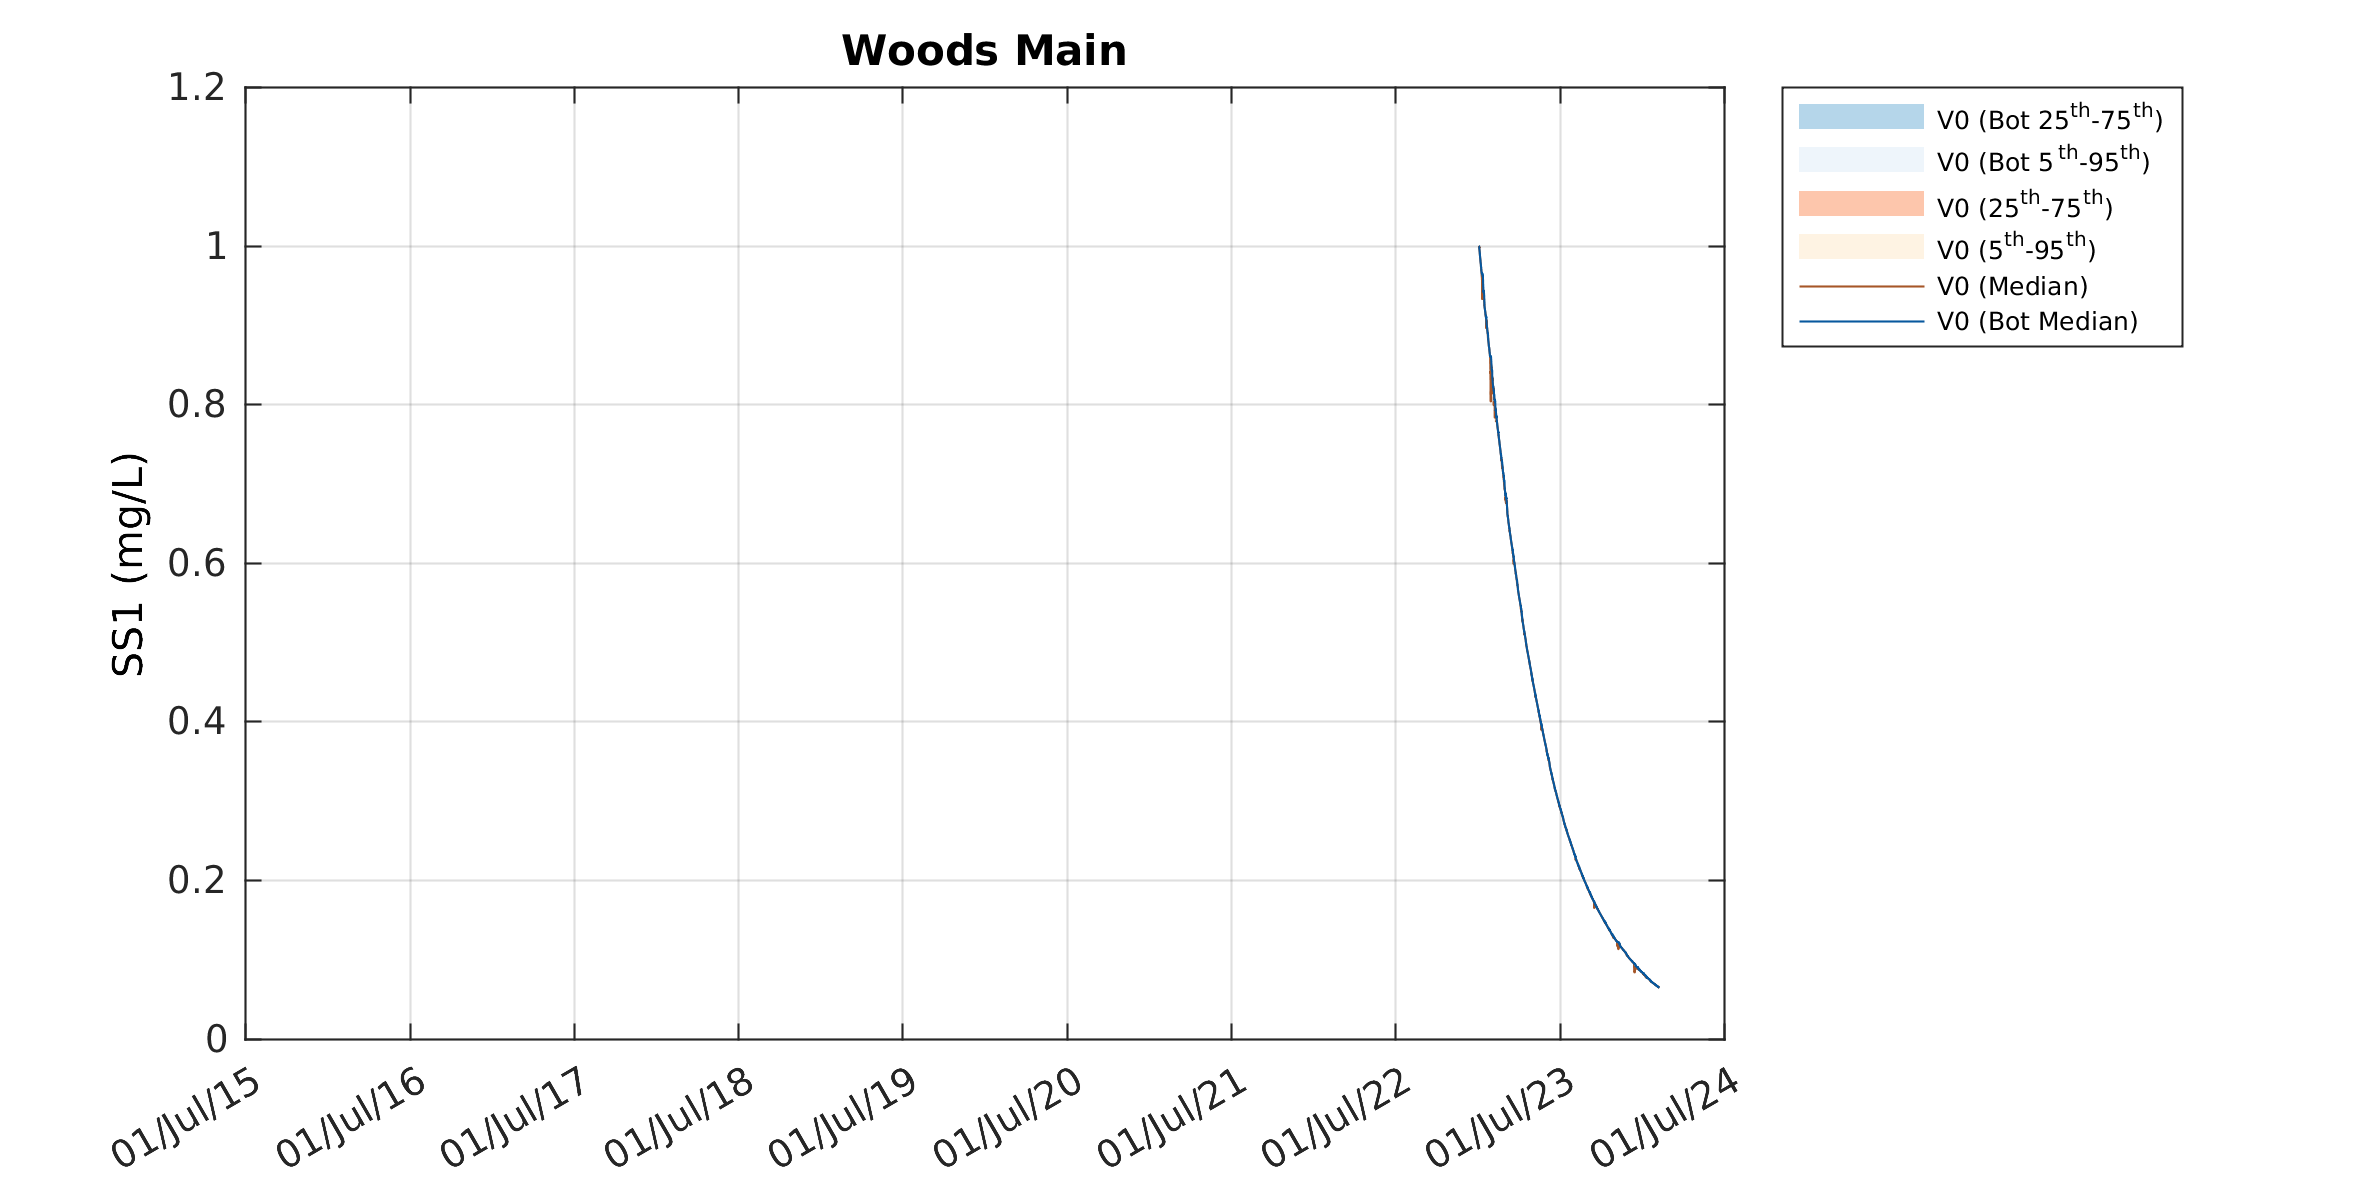
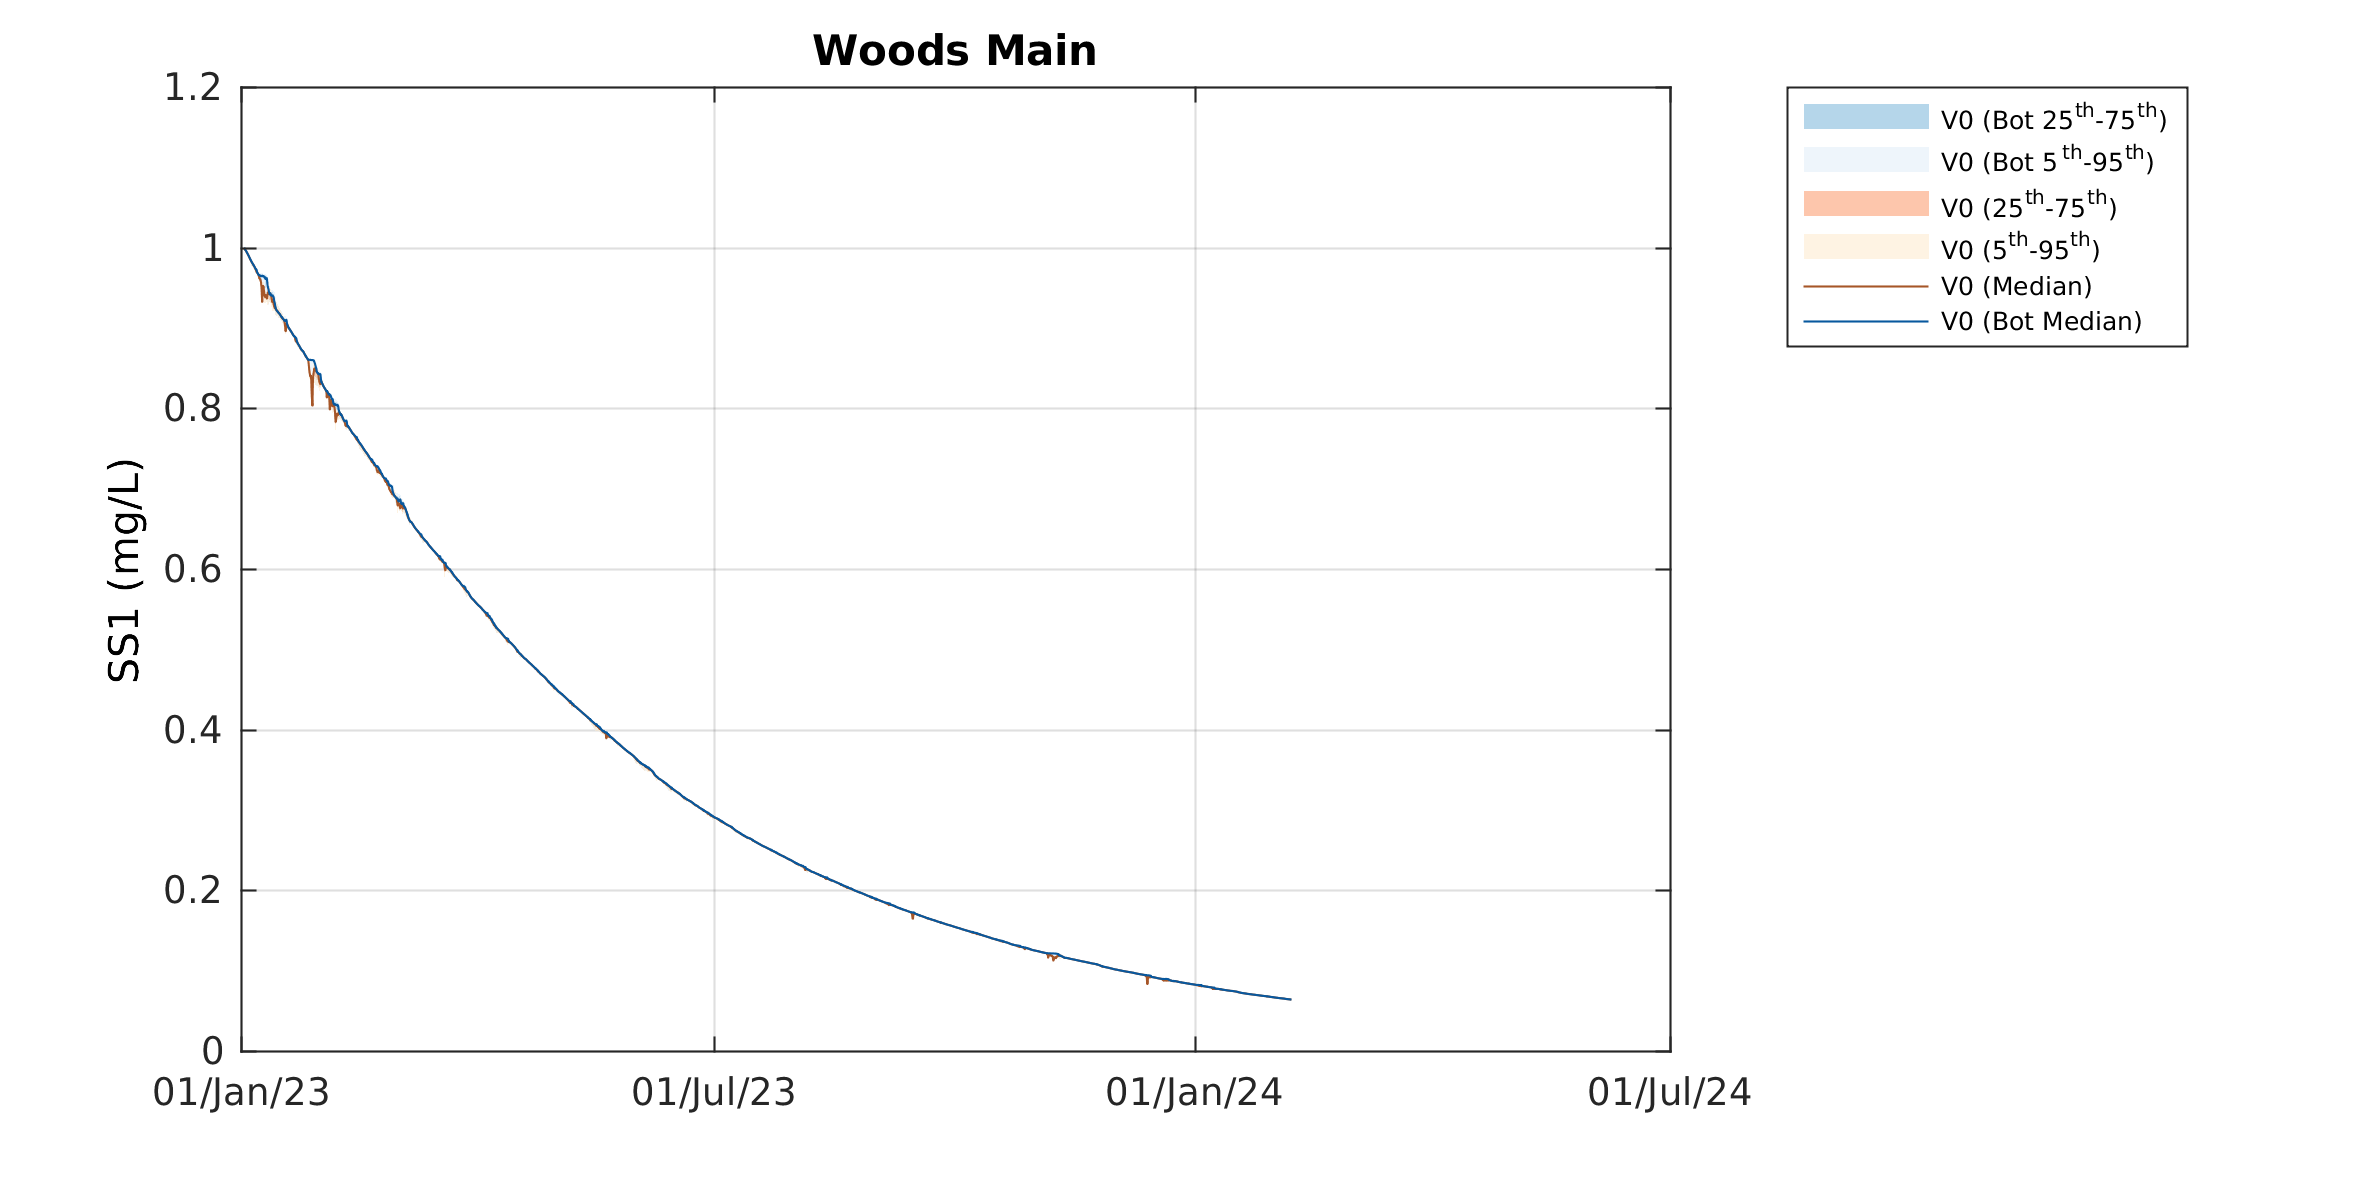
update MARVL_WQ_AED

diff --git a/marvl-config/MARVL_WQ_AED.m b/marvl-config/MARVL_WQ_AED.m
@@ -44,24 +44,24 @@ master.modules = {...
 master.varname = {...
     'H','H';...
     'SAL','Salinity';...
-    'TEMP','Temperature';...
+%    'TEMP','Temperature';...
     'WQ_OXY_OXY','DO';...
     'WQ_DIAG_OXY_SAT','DO-saturation';...
     'WQ_NIT_AMM','NH_4';...
     'WQ_NIT_NIT','NO_3';...
     'WQ_PHS_FRP','PO_4';...
-    'WQ_OGM_POP','POP';...
-    'WQ_OGM_DOP','DOP';...
-    'WQ_OGM_PON','PON';...
-    'WQ_OGM_DON','DON';...
-    'WQ_OGM_POC','POC';...
+%    'WQ_OGM_POP','POP';...
+%    'WQ_OGM_DOP','DOP';...
+%    'WQ_OGM_PON','PON';...
+%    'WQ_OGM_DON','DON';...
+%    'WQ_OGM_POC','POC';...
     'WQ_OGM_DOC','DOC';...
-    'WQ_PHS_FRP_ADS','FRPADS';...
+%    'WQ_PHS_FRP_ADS','FRPADS';...
     'WQ_DIAG_PHY_TCHLA','TCHLA';...
     'WQ_DIAG_TOT_TN','TN';...
     'WQ_DIAG_TOT_TP','TP';...
     'WQ_DIAG_TOT_TSS','TSS';...
-    'WQ_DIAG_TOT_TOC','TOC';...
+%    'WQ_DIAG_TOT_TOC','TOC';...
     'WQ_OGM_DOC','DOC';...
     'WQ_DIAG_TOT_TURBIDITY','Turbidity';...
     'WQ_NCS_SS1','SS1';...
@@ -71,7 +71,7 @@ master.varname = {...
 %     'WQ_PHY_BGA','BGA';...
 %     'WQ_PHY_GRN','GRN';...
 %     'WQ_DIAG_TOT_LIGHT','TOT-LIGHT';...
-%     'WQ_DIAG_TOT_PAR','TOT-PAR';...
+        'WQ_DIAG_TOT_PAR','TOT-PAR';...
 %     'WQ_DIAG_TOT_UV','TOT-UV';...
 %     'WQ_DIAG_TOT_EXTC','TOT-EXTC';...
 % 	  'WQ_DIAG_OGM_PON_SWI','PONSWI';...
@@ -86,10 +86,22 @@ master.add_human = 1; % option to use user-define names, if 0 use AED names
 
 % Models
 master.ncfile(1).name = '/Development/projects/Woods/woods_model_tfvaed_0.1/outputs/results/woods_2023_2024_testwq_WQ.nc';
+%'/Projects2/csiem/Model/TFV/Results_2022_B009/csiem_v1_B009_20220101_20221231_WQ_WQ.nc';
+%'/Projects2/csiem/Model/TFV/Results_2013_B009_HD/csiem_v1_B009_20130101_20131231_HD.nc';
+%'/Projects2/csiem/Model/TFV/Results_2013_B009_HD/csiem_v1_B009_20130101_20131231_HD.nc';
+%'/Projects2/csiem/Model/TFV/Results_2015_B009/csiem_v1_B009_20150101_20151231_WQ_WQ.nc';
+%'/Projects2/csiem/Model/TFV/csiem_model_tfvaed_1.0/tfvaed_1.0/outputs/results_2022_newMZ/csiem_100_A_20220101_20221231_WQ_009_WWM_WRF_GW_NAR_IMOS_newMZ_WQ.nc';
+%'/Projects2/csiem/Model/TFV/csiem_model_tfvaed_1.0/tfvaed_1.0/outputs/results_IMOS/csiem_100_A_20220101_20221231_WQ_009_WWM_WRF_GW_NAR_IMOS_WQ.nc';
+%'/Projects2/csiem/Model/TFV/csiem_model_tfvaed_1.0/tfvaed_1.0/outputs/results_2022_shifted/csiem_100_A_20220101_20221231_WQ_009_waves_noGW_WWM_WQ.nc';
+%'E:\database\csiem_100_A_20130101_20130601_WQ_009_diag_1_WQ.nc';
+%'E:\database\csiem_100_A_20130101_20130601_WQ_009_WQ_plot_ks.nc';
 master.ncfile(1).legend = 'V0';
 master.ncfile(1).tag = 'TFV';
 
 %master.ncfile(2).name = '/Projects2/csiem/Model/TFV/csiem_model_tfvaed_1.1/outputs/results/csiem_v1_A001_20220101_20221231_WQ_lowRes_T1_WQ.nc';
+%'/Projects2/csiem/Model/TFV/Results_2013_B009/csiem_v1_B009_20130101_20131231_WQ_WQ_noCan.nc';
+%'E:\database\csiem_100_A_20130101_20130601_WQ_009_diag_1_WQ.nc';
+%'E:\database\csiem_100_A_20130101_20130601_WQ_009_WQ_plot_ks.nc';
 % master.ncfile(2).legend = 'V1';
 % master.ncfile(2).tag = 'TFV';
 
@@ -117,7 +129,7 @@ MARVLs.master = master; clear master;
 % -------------------------------------------------------------------------
 
 timeseries.start_plot_ID = 1;
-timeseries.end_plot_ID = 23;
+timeseries.end_plot_ID = 16;
 
 timeseries.plotvalidation = 1; % Add field data to figure (true or false)
 timeseries.validation_raw = 1; % 1: raw data; 0: daily-average
@@ -179,7 +191,7 @@ timeseries.ncfile(2).col_pal_color_bot  =[[254,232,200]./255;[252,141,89]./255];
 
 
 % plotting configuration
-timeseries.datearray = datenum(2022:01:2024,07,1);
+timeseries.datearray = datenum(2023,01:6:19,1);
 timeseries.dateformat = 'dd/mmm/yy';
 
 %timeseries.dimc = [0.9 0.9 0.9]; % dimmest (lightest) color
